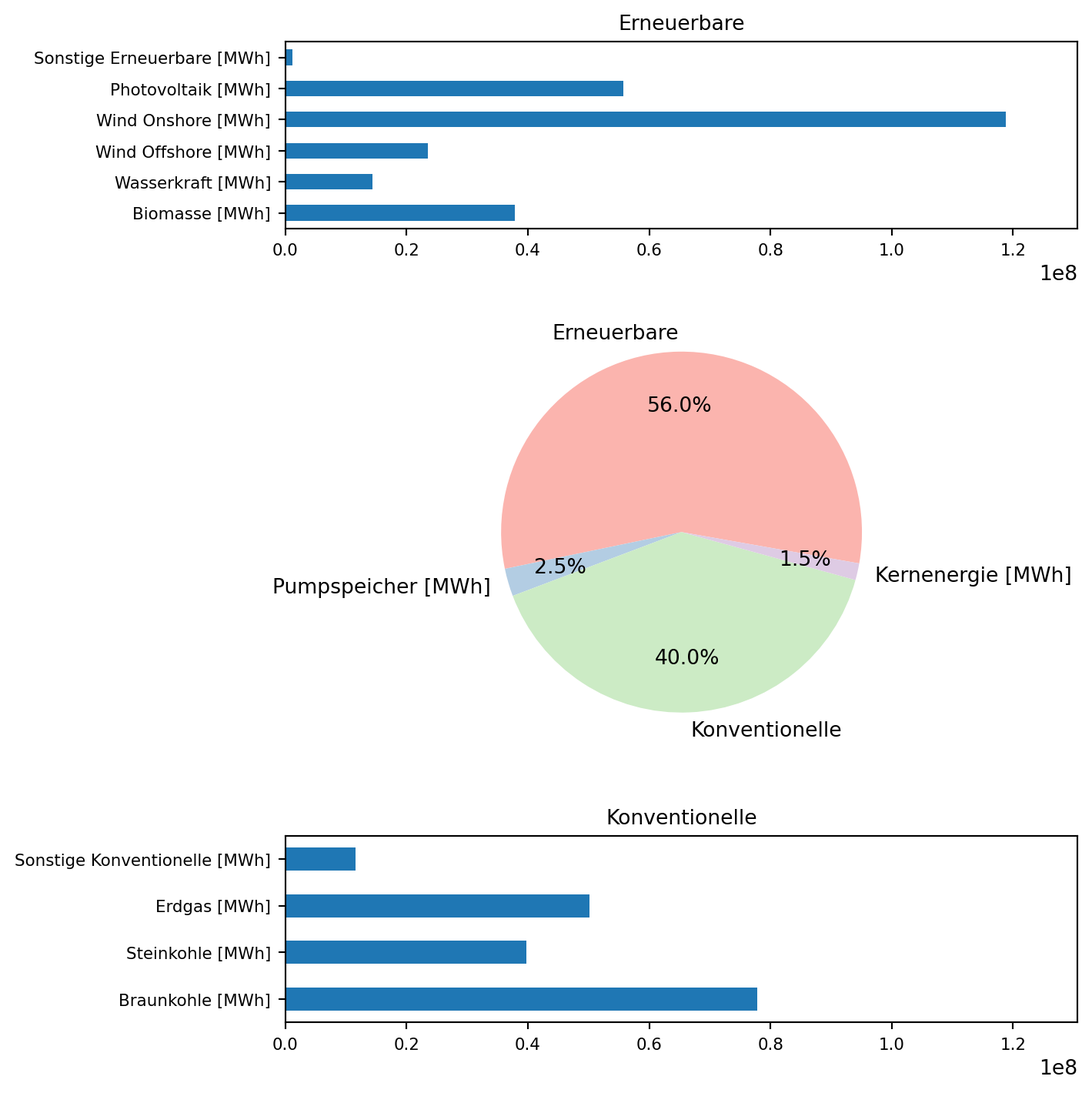
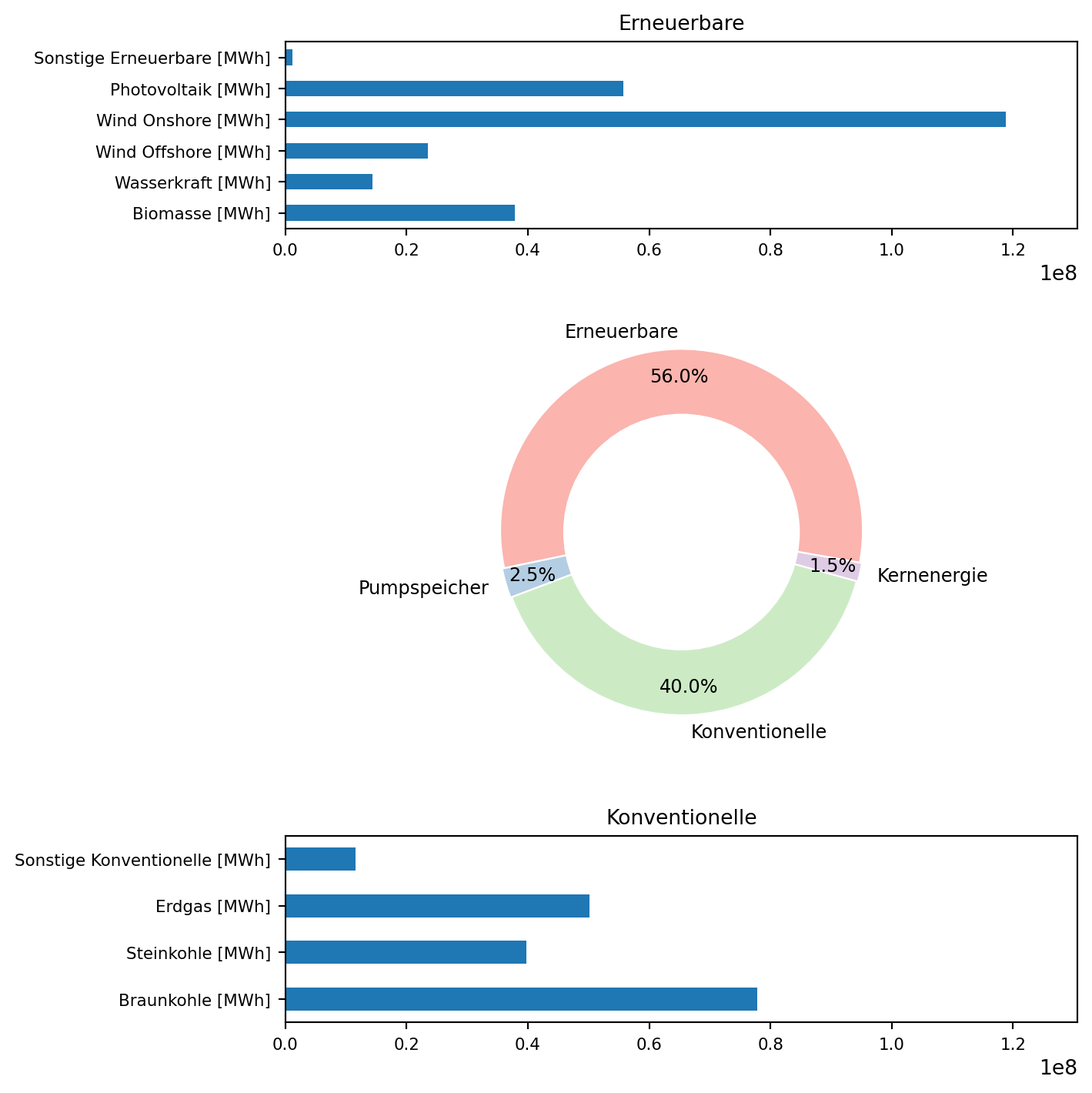
minor update - to matplotlib grafic

Changed region(s): [[0.2481, 0.2789, 0.8992, 0.6817], [0.9302, 0.4958, 0.9612, 0.5268]]

diff --git a/Energiedatenauswertung.html b/Energiedatenauswertung.html
@@ -312,7 +312,7 @@ Warning&nbsp;1: SMARD Daten herunterladen
 <li><p>die Spalten mit Datums- und Zeitangaben sowie das Datumsformat bestimmt.<br>
 <code>parse_dates =  [0, 1], date_format = "%d.%m.%Y %H:%M"</code></p></li>
 </ul>
-<div id="04543f3e" class="cell" data-results="hold" data-execution_count="1">
+<div id="4153e0c9" class="cell" data-results="hold" data-execution_count="1">
 <div class="sourceCode cell-code" id="cb2"><pre class="sourceCode python code-with-copy"><code class="sourceCode python"><span id="cb2-1"><a href="#cb2-1" aria-hidden="true" tabindex="-1"></a><span class="im">import</span> pandas <span class="im">as</span> pd</span>
 <span id="cb2-2"><a href="#cb2-2" aria-hidden="true" tabindex="-1"></a>pd.set_option(<span class="st">"display.precision"</span>, <span class="dv">2</span>) <span class="co"># places after decimal for floats</span></span>
 <span id="cb2-3"><a href="#cb2-3" aria-hidden="true" tabindex="-1"></a><span class="im">import</span> numpy <span class="im">as</span> np</span>
@@ -349,7 +349,7 @@ english version
 <div id="callout-3" class="callout-3-contents callout-collapse collapse">
 <div class="callout-body-container callout-body">
 <p>english version</p>
-<div id="46a1de90" class="cell" data-results="hold" data-execution_count="2">
+<div id="996e1d3f" class="cell" data-results="hold" data-execution_count="2">
 <div class="sourceCode cell-code" id="cb3"><pre class="sourceCode python code-with-copy"><code class="sourceCode python"><span id="cb3-1"><a href="#cb3-1" aria-hidden="true" tabindex="-1"></a><span class="im">import</span> pandas <span class="im">as</span> pd</span>
 <span id="cb3-2"><a href="#cb3-2" aria-hidden="true" tabindex="-1"></a></span>
 <span id="cb3-3"><a href="#cb3-3" aria-hidden="true" tabindex="-1"></a>erzeugung0_en <span class="op">=</span> pd.read_csv(filepath_or_buffer <span class="op">=</span> <span class="op">\</span></span>
@@ -358,7 +358,7 @@ english version
 <span id="cb3-6"><a href="#cb3-6" aria-hidden="true" tabindex="-1"></a>parse_dates <span class="op">=</span>  [<span class="dv">0</span>, <span class="dv">1</span>], date_format <span class="op">=</span> <span class="st">"%b </span><span class="sc">%d</span><span class="st">, %Y %I:%M %p"</span>) <span class="co"># leading zero is optional for formats %d, %m, %H, %I, %M, %S, %j, %U, %W, and %V</span></span>
 <span id="cb3-7"><a href="#cb3-7" aria-hidden="true" tabindex="-1"></a></span>
 <span id="cb3-8"><a href="#cb3-8" aria-hidden="true" tabindex="-1"></a>pd.concat([erzeugung0_en.head(<span class="dv">2</span>), erzeugung0_en.tail(<span class="dv">2</span>)])</span></code><button title="In die Zwischenablage kopieren" class="code-copy-button"><i class="bi"></i></button></pre></div>
-<div class="cell-output cell-output-display" data-execution_count="2">
+<div class="cell-output cell-output-display" data-execution_count="141">
 <div>
 <div>
 
@@ -567,7 +567,7 @@ Tip&nbsp;2: Lösung Datumsformat
 <section id="daten-organisieren" class="level1" data-number="5">
 <h1 data-number="5"><span class="header-section-number">5</span> Daten organisieren</h1>
 <p>Vor der Datenanalyse sollte überprüft werden, ob die Daten korrekt eingelesen wurden. Dies bedeutet zum einen, zu kontrollieren, ob der Datentyp aller Spalten richtig erkannt wurde. Ob die Spaltentypen einer Datei korrekt eingelesen wurden, können Sie in Python mit dem Befehl <code>df.dtypes</code> überprüfen. Hier der Output des Befehls für den DataFrame <code>erzeugung0</code>.</p>
-<div id="603b0bcd" class="cell" data-results="hold" data-execution_count="3">
+<div id="be5d8c02" class="cell" data-results="hold" data-execution_count="3">
 <div class="sourceCode cell-code" id="cb4"><pre class="sourceCode python code-with-copy"><code class="sourceCode python"><span id="cb4-1"><a href="#cb4-1" aria-hidden="true" tabindex="-1"></a><span class="bu">print</span>(<span class="ss">f"Spalten:</span><span class="ch">\n</span><span class="sc">{</span>erzeugung0<span class="sc">.</span>dtypes<span class="sc">}</span><span class="ss">"</span>)</span></code><button title="In die Zwischenablage kopieren" class="code-copy-button"><i class="bi"></i></button></pre></div>
 <div class="cell-output cell-output-stdout">
 <pre><code>Spalten:
@@ -590,7 +590,7 @@ dtype: object</code></pre>
 </div>
 <p>&nbsp;</p>
 <p>Viele der Spaltennamen enthalten die Zeichenkette ” Originalauflösungen”, die der Übersichtlichkeit wegen entfernt werden kann (führendes Leerzeichen beachten). Auf diese Weise könnte auch die Einheitenangabe [MWh] entfernt werden, falls diese als störend empfunden wird.</p>
-<div id="f6bcb67e" class="cell" data-results="hold" data-execution_count="4">
+<div id="46994932" class="cell" data-results="hold" data-execution_count="4">
 <div class="sourceCode cell-code" id="cb6"><pre class="sourceCode python code-with-copy"><code class="sourceCode python"><span id="cb6-1"><a href="#cb6-1" aria-hidden="true" tabindex="-1"></a><span class="co"># Zeichenkette " Originalauflösungen" entfernen</span></span>
 <span id="cb6-2"><a href="#cb6-2" aria-hidden="true" tabindex="-1"></a>installierte_leistung0.columns <span class="op">=</span> installierte_leistung0.columns.<span class="bu">str</span>.replace(pat <span class="op">=</span> <span class="st">" Originalauflösungen"</span>, repl <span class="op">=</span> <span class="st">""</span>)</span>
 <span id="cb6-3"><a href="#cb6-3" aria-hidden="true" tabindex="-1"></a></span>
@@ -623,10 +623,10 @@ dtype: object</code></pre>
 <ul class="nav nav-tabs" role="tablist"><li class="nav-item" role="presentation"><a class="nav-link active" id="tabset-1-1-tab" data-bs-toggle="tab" data-bs-target="#tabset-1-1" role="tab" aria-controls="tabset-1-1" aria-selected="true" href="">installierte Leistung</a></li><li class="nav-item" role="presentation"><a class="nav-link" id="tabset-1-2-tab" data-bs-toggle="tab" data-bs-target="#tabset-1-2" role="tab" aria-controls="tabset-1-2" aria-selected="false" href="">realisierte Erzeugung</a></li><li class="nav-item" role="presentation"><a class="nav-link" id="tabset-1-3-tab" data-bs-toggle="tab" data-bs-target="#tabset-1-3" role="tab" aria-controls="tabset-1-3" aria-selected="false" href="">realisierter Verbrauch</a></li></ul>
 <div class="tab-content">
 <div id="tabset-1-1" class="tab-pane active" role="tabpanel" aria-labelledby="tabset-1-1-tab">
-<div id="5e18ce75" class="cell" data-results="hold" data-execution_count="5">
+<div id="9220696a" class="cell" data-results="hold" data-execution_count="5">
 <div class="sourceCode cell-code" id="cb8"><pre class="sourceCode python code-with-copy"><code class="sourceCode python"><span id="cb8-1"><a href="#cb8-1" aria-hidden="true" tabindex="-1"></a><span class="co"># der DataFrame installierte_leistung0 hat nur 1 Zeile</span></span>
 <span id="cb8-2"><a href="#cb8-2" aria-hidden="true" tabindex="-1"></a>installierte_leistung0</span></code><button title="In die Zwischenablage kopieren" class="code-copy-button"><i class="bi"></i></button></pre></div>
-<div class="cell-output cell-output-display" data-execution_count="5">
+<div class="cell-output cell-output-display" data-execution_count="144">
 <div>
 <div>
 
@@ -678,11 +678,11 @@ dtype: object</code></pre>
 </div>
 </div>
 <div id="tabset-1-2" class="tab-pane" role="tabpanel" aria-labelledby="tabset-1-2-tab">
-<div id="83ef1889" class="cell" data-results="hold" data-execution_count="6">
+<div id="deff7fd3" class="cell" data-results="hold" data-execution_count="6">
 <div class="sourceCode cell-code" id="cb9"><pre class="sourceCode python code-with-copy"><code class="sourceCode python"><span id="cb9-1"><a href="#cb9-1" aria-hidden="true" tabindex="-1"></a>pd.concat([erzeugung0.head(<span class="dv">2</span>), <span class="op">\</span></span>
 <span id="cb9-2"><a href="#cb9-2" aria-hidden="true" tabindex="-1"></a>erzeugung0.iloc[<span class="bu">len</span>(erzeugung0)<span class="op">//</span><span class="dv">2</span>:(<span class="bu">len</span>(erzeugung0)<span class="op">//</span><span class="dv">2</span><span class="op">+</span><span class="dv">2</span>)], <span class="op">\</span></span>
 <span id="cb9-3"><a href="#cb9-3" aria-hidden="true" tabindex="-1"></a>erzeugung0.tail(<span class="dv">2</span>)])</span></code><button title="In die Zwischenablage kopieren" class="code-copy-button"><i class="bi"></i></button></pre></div>
-<div class="cell-output cell-output-display" data-execution_count="6">
+<div class="cell-output cell-output-display" data-execution_count="145">
 <div>
 <div>
 
@@ -819,11 +819,11 @@ dtype: object</code></pre>
 </div>
 </div>
 <div id="tabset-1-3" class="tab-pane" role="tabpanel" aria-labelledby="tabset-1-3-tab">
-<div id="c0aa490c" class="cell" data-results="hold" data-execution_count="7">
+<div id="d0a594ec" class="cell" data-results="hold" data-execution_count="7">
 <div class="sourceCode cell-code" id="cb10"><pre class="sourceCode python code-with-copy"><code class="sourceCode python"><span id="cb10-1"><a href="#cb10-1" aria-hidden="true" tabindex="-1"></a>pd.concat([verbrauch0.head(<span class="dv">2</span>), <span class="op">\</span></span>
 <span id="cb10-2"><a href="#cb10-2" aria-hidden="true" tabindex="-1"></a>verbrauch0.iloc[<span class="bu">len</span>(verbrauch0)<span class="op">//</span><span class="dv">2</span>:(<span class="bu">len</span>(verbrauch0)<span class="op">//</span><span class="dv">2</span><span class="op">+</span><span class="dv">2</span>)], <span class="op">\</span></span>
 <span id="cb10-3"><a href="#cb10-3" aria-hidden="true" tabindex="-1"></a>verbrauch0.tail(<span class="dv">2</span>)])</span></code><button title="In die Zwischenablage kopieren" class="code-copy-button"><i class="bi"></i></button></pre></div>
-<div class="cell-output cell-output-display" data-execution_count="7">
+<div class="cell-output cell-output-display" data-execution_count="146">
 <div>
 <div>
 
@@ -900,7 +900,7 @@ dtype: object</code></pre>
 </div>
 <p>&nbsp;</p>
 <p>Schließlich ist eine Plausibilitätskontrolle der Daten sinnvoll. Einleitend wurde der deutsche Gesamtstromverbrauch im Jahr 2023 genannt, der 458,3 TWh beträgt. Der Stromverbrauch und die Summe der Stromerzeugung sollten diesem Wert ungefähr entsprechen.</p>
-<div id="c4282f96" class="cell" data-execution_count="8">
+<div id="f74ab242" class="cell" data-execution_count="8">
 <div class="sourceCode cell-code" id="cb11"><pre class="sourceCode python code-with-copy"><code class="sourceCode python"><span id="cb11-1"><a href="#cb11-1" aria-hidden="true" tabindex="-1"></a><span class="co"># exclude columns with datetime</span></span>
 <span id="cb11-2"><a href="#cb11-2" aria-hidden="true" tabindex="-1"></a><span class="bu">print</span>(<span class="st">"Stromverbrauch in Millionen MWh:</span><span class="ch">\n</span><span class="st">"</span>, <span class="op">\</span></span>
 <span id="cb11-3"><a href="#cb11-3" aria-hidden="true" tabindex="-1"></a>verbrauch0.<span class="bu">sum</span>(numeric_only <span class="op">=</span> <span class="va">True</span>) <span class="op">//</span> (<span class="dv">1000</span> <span class="op">*</span> <span class="dv">1000</span>), sep <span class="op">=</span> <span class="st">""</span>)</span>
@@ -919,7 +919,7 @@ Stromerzeugung in Millionen MWh 448.0</code></pre>
 </div>
 <p>&nbsp;</p>
 <p>Wenn alle Dateien korrekt eingelesen wurden, können Arbeitsdateien mit dem Befehl <code>df.copy()</code> angelegt werden. Mit diesen wird im folgenden gearbeitet. Dadurch bleiben die Rohdaten immer verfügbar und können bei Bedarf, beispielsweise nach einem versehentlichen Überschreiben der Arbeitsdateien, erneut geladen werden.</p>
-<div id="989d20bf" class="cell" data-results="hold" data-execution_count="9">
+<div id="95ec470c" class="cell" data-results="hold" data-execution_count="9">
 <div class="sourceCode cell-code" id="cb13"><pre class="sourceCode python code-with-copy"><code class="sourceCode python"><span id="cb13-1"><a href="#cb13-1" aria-hidden="true" tabindex="-1"></a>erzeugung <span class="op">=</span> erzeugung0.copy()</span>
 <span id="cb13-2"><a href="#cb13-2" aria-hidden="true" tabindex="-1"></a>verbrauch <span class="op">=</span> verbrauch0.copy()</span>
 <span id="cb13-3"><a href="#cb13-3" aria-hidden="true" tabindex="-1"></a>installierte_leistung <span class="op">=</span> installierte_leistung0.copy()</span></code><button title="In die Zwischenablage kopieren" class="code-copy-button"><i class="bi"></i></button></pre></div>
@@ -929,7 +929,7 @@ Stromerzeugung in Millionen MWh 448.0</code></pre>
 <h1 data-number="6"><span class="header-section-number">6</span> Beschreibende Datenanalyse</h1>
 <p>Mit Methoden der beschreibenden Statistik kann ein Überblick über die Datensätze und die Daten gewonnen werden. Dieser Schritt dient insbesondere auch dazu, mögliche Fehler und Auffälligkeiten im Datensatz zu identifizieren. Hierbei gewonnene Befunde können im der folgenden explorativen und analytischen Datenanalyse vertieft werden.</p>
 <p>Einen ersten Überblick über die Daten liefert die Methode <code>pd.DataFrame.describe()</code>. Durch das Argument <code>include = [np.number]</code> kann die Ausgabe auf Spalten mit numerischen Daten beschränkt, also die Spalten mit Datumsinformationen ausgeschlossen, werden.</p>
-<div id="50b563cb" class="cell" data-results="hold" data-execution_count="10">
+<div id="ffff33eb" class="cell" data-results="hold" data-execution_count="10">
 <div class="sourceCode cell-code" id="cb14"><pre class="sourceCode python code-with-copy"><code class="sourceCode python"><span id="cb14-1"><a href="#cb14-1" aria-hidden="true" tabindex="-1"></a><span class="bu">print</span>(<span class="ss">f"Der DataFrame erzeugung hat </span><span class="sc">{</span>erzeugung<span class="sc">.</span>shape[<span class="dv">0</span>]<span class="sc">}</span><span class="ss"> Zeilen und </span><span class="sc">{</span>erzeugung<span class="sc">.</span>shape[<span class="dv">1</span>]<span class="sc">}</span><span class="ss"> Spalten.</span><span class="ch">\n</span><span class="ss">"</span>)</span>
 <span id="cb14-2"><a href="#cb14-2" aria-hidden="true" tabindex="-1"></a><span class="bu">print</span>(erzeugung.describe(include <span class="op">=</span> [np.number]))</span></code><button title="In die Zwischenablage kopieren" class="code-copy-button"><i class="bi"></i></button></pre></div>
 <div class="cell-output cell-output-stdout">
@@ -1007,7 +1007,7 @@ Tip&nbsp;3: Lösung Zeichenkette
 <ul class="nav nav-tabs" role="tablist"><li class="nav-item" role="presentation"><a class="nav-link active" id="tabset-2-1-tab" data-bs-toggle="tab" data-bs-target="#tabset-2-1" role="tab" aria-controls="tabset-2-1" aria-selected="true" href="">Plotten mit Pandas</a></li><li class="nav-item" role="presentation"><a class="nav-link" id="tabset-2-2-tab" data-bs-toggle="tab" data-bs-target="#tabset-2-2" role="tab" aria-controls="tabset-2-2" aria-selected="false" href="">To Do</a></li><li class="nav-item" role="presentation"><a class="nav-link" id="tabset-2-3-tab" data-bs-toggle="tab" data-bs-target="#tabset-2-3" role="tab" aria-controls="tabset-2-3" aria-selected="false" href="">Code für Pandas</a></li></ul>
 <div class="tab-content">
 <div id="tabset-2-1" class="tab-pane active" role="tabpanel" aria-labelledby="tabset-2-1-tab">
-<div id="e0dc902f" class="cell" data-results="hold" data-execution_count="11">
+<div id="a0f3b06f" class="cell" data-results="hold" data-execution_count="11">
 <div class="cell-output cell-output-display">
 <div class="quarto-figure quarto-figure-center">
 <figure class="figure">
@@ -1030,7 +1030,7 @@ Tip&nbsp;3: Lösung Zeichenkette
 </ul>
 </div>
 <div id="tabset-2-3" class="tab-pane" role="tabpanel" aria-labelledby="tabset-2-3-tab">
-<div id="4846dc65" class="cell" data-results="hold" data-execution_count="12">
+<div id="7110be2f" class="cell" data-results="hold" data-execution_count="12">
 <div class="sourceCode cell-code" id="cb16"><pre class="sourceCode python code-with-copy"><code class="sourceCode python"><span id="cb16-1"><a href="#cb16-1" aria-hidden="true" tabindex="-1"></a><span class="co"># white space between pieces</span></span>
 <span id="cb16-2"><a href="#cb16-2" aria-hidden="true" tabindex="-1"></a>explosion <span class="op">=</span> np.zeros(<span class="bu">sum</span>(<span class="bu">list</span>(erzeugung.dtypes <span class="op">==</span> np.number))) <span class="co"># way to count numeric columns</span></span>
 <span id="cb16-3"><a href="#cb16-3" aria-hidden="true" tabindex="-1"></a>explosion <span class="op">=</span> explosion <span class="op">+</span> <span class="fl">0.02</span> <span class="co"># set spacing</span></span>
@@ -1063,7 +1063,7 @@ Tip&nbsp;3: Lösung Zeichenkette
 <ul class="nav nav-tabs" role="tablist"><li class="nav-item" role="presentation"><a class="nav-link active" id="tabset-3-1-tab" data-bs-toggle="tab" data-bs-target="#tabset-3-1" role="tab" aria-controls="tabset-3-1" aria-selected="true" href="">Plotten mit matplotlib</a></li><li class="nav-item" role="presentation"><a class="nav-link" id="tabset-3-2-tab" data-bs-toggle="tab" data-bs-target="#tabset-3-2" role="tab" aria-controls="tabset-3-2" aria-selected="false" href="">To Do</a></li><li class="nav-item" role="presentation"><a class="nav-link" id="tabset-3-3-tab" data-bs-toggle="tab" data-bs-target="#tabset-3-3" role="tab" aria-controls="tabset-3-3" aria-selected="false" href="">Code für matplotlib</a></li></ul>
 <div class="tab-content">
 <div id="tabset-3-1" class="tab-pane active" role="tabpanel" aria-labelledby="tabset-3-1-tab">
-<div id="29f12f9c" class="cell" data-results="hold" data-execution_count="13">
+<div id="d1a97d43" class="cell" data-results="hold" data-execution_count="13">
 <div class="cell-output cell-output-display">
 <div class="quarto-figure quarto-figure-center">
 <figure class="figure">
@@ -1087,7 +1087,7 @@ Option2: Zugriff auf Farbpalette meistern</p></li>
 </ul>
 </div>
 <div id="tabset-3-3" class="tab-pane" role="tabpanel" aria-labelledby="tabset-3-3-tab">
-<div id="7bfbc6f6" class="cell" data-results="hold" data-execution_count="14">
+<div id="08377ae3" class="cell" data-results="hold" data-execution_count="14">
 <div class="sourceCode cell-code" id="cb17"><pre class="sourceCode python code-with-copy"><code class="sourceCode python"><span id="cb17-1"><a href="#cb17-1" aria-hidden="true" tabindex="-1"></a><span class="co"># Erneuerbare und Konventionelle bestimmen, jeweils summieren</span></span>
 <span id="cb17-2"><a href="#cb17-2" aria-hidden="true" tabindex="-1"></a></span>
 <span id="cb17-3"><a href="#cb17-3" aria-hidden="true" tabindex="-1"></a><span class="co">## Erneuerbare</span></span>
@@ -1116,27 +1116,36 @@ Option2: Zugriff auf Farbpalette meistern</p></li>
 <span id="cb17-26"><a href="#cb17-26" aria-hidden="true" tabindex="-1"></a><span class="co"># Grafik mit drei subplots erzeugen</span></span>
 <span id="cb17-27"><a href="#cb17-27" aria-hidden="true" tabindex="-1"></a>plt.figure(figsize <span class="op">=</span> (<span class="fl">7.5</span>, <span class="fl">7.5</span>))</span>
 <span id="cb17-28"><a href="#cb17-28" aria-hidden="true" tabindex="-1"></a></span>
-<span id="cb17-29"><a href="#cb17-29" aria-hidden="true" tabindex="-1"></a>nrows <span class="op">=</span> <span class="dv">5</span></span>
-<span id="cb17-30"><a href="#cb17-30" aria-hidden="true" tabindex="-1"></a>ncols <span class="op">=</span> <span class="dv">2</span></span>
-<span id="cb17-31"><a href="#cb17-31" aria-hidden="true" tabindex="-1"></a>font_size <span class="op">=</span> <span class="dv">8</span></span>
-<span id="cb17-32"><a href="#cb17-32" aria-hidden="true" tabindex="-1"></a>x_lim <span class="op">=</span> erzeugung.<span class="bu">sum</span>(numeric_only <span class="op">=</span> <span class="va">True</span>).<span class="bu">max</span>() <span class="op">*</span> <span class="fl">1.1</span> <span class="co"># same axis for barplots</span></span>
-<span id="cb17-33"><a href="#cb17-33" aria-hidden="true" tabindex="-1"></a></span>
-<span id="cb17-34"><a href="#cb17-34" aria-hidden="true" tabindex="-1"></a><span class="co"># use 6 out of 10 panels = middle 3 rows</span></span>
-<span id="cb17-35"><a href="#cb17-35" aria-hidden="true" tabindex="-1"></a>plt.subplot(nrows, ncols, (<span class="dv">3</span>, <span class="dv">8</span>))</span>
-<span id="cb17-36"><a href="#cb17-36" aria-hidden="true" tabindex="-1"></a>plt.pie(x <span class="op">=</span> plotting_data.<span class="bu">sum</span>(), colors <span class="op">=</span> plt.cm.Pastel1.colors, startangle <span class="op">=</span> <span class="dv">350</span>, labels <span class="op">=</span> <span class="bu">list</span>(plotting_data.columns), autopct<span class="op">=</span><span class="st">'</span><span class="sc">%1.1f%%</span><span class="st">'</span>, pctdistance <span class="op">=</span> <span class="fl">0.7</span>, textprops <span class="op">=</span> <span class="bu">dict</span>(size <span class="op">=</span> font_size <span class="op">+</span><span class="dv">2</span> ))</span>
+<span id="cb17-29"><a href="#cb17-29" aria-hidden="true" tabindex="-1"></a><span class="co"># white space between pieces</span></span>
+<span id="cb17-30"><a href="#cb17-30" aria-hidden="true" tabindex="-1"></a>explosion <span class="op">=</span> np.zeros(<span class="bu">sum</span>(<span class="bu">list</span>(plotting_data.dtypes <span class="op">==</span> np.number))) <span class="co"># way to count numeric columns</span></span>
+<span id="cb17-31"><a href="#cb17-31" aria-hidden="true" tabindex="-1"></a>explosion <span class="op">=</span> explosion <span class="op">+</span> <span class="fl">0.01</span> <span class="co"># set spacing</span></span>
+<span id="cb17-32"><a href="#cb17-32" aria-hidden="true" tabindex="-1"></a></span>
+<span id="cb17-33"><a href="#cb17-33" aria-hidden="true" tabindex="-1"></a>nrows <span class="op">=</span> <span class="dv">4</span></span>
+<span id="cb17-34"><a href="#cb17-34" aria-hidden="true" tabindex="-1"></a>ncols <span class="op">=</span> <span class="dv">2</span></span>
+<span id="cb17-35"><a href="#cb17-35" aria-hidden="true" tabindex="-1"></a>font_size <span class="op">=</span> <span class="dv">8</span></span>
+<span id="cb17-36"><a href="#cb17-36" aria-hidden="true" tabindex="-1"></a>x_lim <span class="op">=</span> erzeugung.<span class="bu">sum</span>(numeric_only <span class="op">=</span> <span class="va">True</span>).<span class="bu">max</span>() <span class="op">*</span> <span class="fl">1.1</span> <span class="co"># get value for shared x-axis on barplots</span></span>
 <span id="cb17-37"><a href="#cb17-37" aria-hidden="true" tabindex="-1"></a></span>
-<span id="cb17-38"><a href="#cb17-38" aria-hidden="true" tabindex="-1"></a><span class="co"># top row  unstacked barplot </span></span>
-<span id="cb17-39"><a href="#cb17-39" aria-hidden="true" tabindex="-1"></a>plt.subplot(nrows, ncols, (<span class="dv">1</span>, <span class="dv">2</span>))</span>
-<span id="cb17-40"><a href="#cb17-40" aria-hidden="true" tabindex="-1"></a>erzeugung[erneuerbare].<span class="bu">sum</span>().plot.barh(fontsize <span class="op">=</span> font_size, xlim <span class="op">=</span> (<span class="dv">0</span>, x_lim))</span>
-<span id="cb17-41"><a href="#cb17-41" aria-hidden="true" tabindex="-1"></a>plt.title(<span class="st">"Erneuerbare"</span>, fontsize <span class="op">=</span> font_size <span class="op">+</span> <span class="dv">2</span>)</span>
-<span id="cb17-42"><a href="#cb17-42" aria-hidden="true" tabindex="-1"></a></span>
-<span id="cb17-43"><a href="#cb17-43" aria-hidden="true" tabindex="-1"></a><span class="co"># bottom row unstacked barplot </span></span>
-<span id="cb17-44"><a href="#cb17-44" aria-hidden="true" tabindex="-1"></a>plt.subplot(nrows, ncols, (<span class="dv">9</span>, <span class="dv">10</span>))</span>
-<span id="cb17-45"><a href="#cb17-45" aria-hidden="true" tabindex="-1"></a>erzeugung[konventionelle].<span class="bu">sum</span>().plot.barh(fontsize <span class="op">=</span> font_size, xlim <span class="op">=</span> (<span class="dv">0</span>, x_lim))</span>
-<span id="cb17-46"><a href="#cb17-46" aria-hidden="true" tabindex="-1"></a>plt.title(<span class="st">"Konventionelle"</span>, fontsize <span class="op">=</span> font_size <span class="op">+</span> <span class="dv">2</span>)</span>
-<span id="cb17-47"><a href="#cb17-47" aria-hidden="true" tabindex="-1"></a></span>
-<span id="cb17-48"><a href="#cb17-48" aria-hidden="true" tabindex="-1"></a>plt.tight_layout()</span>
-<span id="cb17-49"><a href="#cb17-49" aria-hidden="true" tabindex="-1"></a>plt.show()</span></code><button title="In die Zwischenablage kopieren" class="code-copy-button"><i class="bi"></i></button></pre></div>
+<span id="cb17-38"><a href="#cb17-38" aria-hidden="true" tabindex="-1"></a><span class="co"># plot the pie, use 4 out of 8 panels = middle 2 rows</span></span>
+<span id="cb17-39"><a href="#cb17-39" aria-hidden="true" tabindex="-1"></a>ax <span class="op">=</span> plt.subplot(nrows, ncols, (<span class="dv">3</span>, <span class="dv">6</span>))</span>
+<span id="cb17-40"><a href="#cb17-40" aria-hidden="true" tabindex="-1"></a>plt.pie(x <span class="op">=</span> plotting_data.<span class="bu">sum</span>(), colors <span class="op">=</span> plt.cm.Pastel1.colors, startangle <span class="op">=</span> <span class="dv">350</span>, labels <span class="op">=</span> <span class="bu">list</span>(plotting_data.columns), autopct<span class="op">=</span><span class="st">'</span><span class="sc">%1.1f%%</span><span class="st">'</span>, pctdistance <span class="op">=</span> <span class="fl">0.85</span>, textprops <span class="op">=</span> <span class="bu">dict</span>(size <span class="op">=</span> font_size <span class="op">+</span> <span class="dv">1</span>), explode <span class="op">=</span> explosion)</span>
+<span id="cb17-41"><a href="#cb17-41" aria-hidden="true" tabindex="-1"></a></span>
+<span id="cb17-42"><a href="#cb17-42" aria-hidden="true" tabindex="-1"></a><span class="co"># make a donut</span></span>
+<span id="cb17-43"><a href="#cb17-43" aria-hidden="true" tabindex="-1"></a>my_axis <span class="op">=</span> plt.gca() <span class="co"># plt.gca = get current axis</span></span>
+<span id="cb17-44"><a href="#cb17-44" aria-hidden="true" tabindex="-1"></a>circle <span class="op">=</span> plt.Circle((<span class="dv">0</span>, <span class="dv">0</span>), radius <span class="op">=</span> <span class="fl">0.65</span>, color <span class="op">=</span> <span class="st">"white"</span>)</span>
+<span id="cb17-45"><a href="#cb17-45" aria-hidden="true" tabindex="-1"></a>ax.add_patch(circle)</span>
+<span id="cb17-46"><a href="#cb17-46" aria-hidden="true" tabindex="-1"></a></span>
+<span id="cb17-47"><a href="#cb17-47" aria-hidden="true" tabindex="-1"></a><span class="co"># top row  unstacked barplot </span></span>
+<span id="cb17-48"><a href="#cb17-48" aria-hidden="true" tabindex="-1"></a>plt.subplot(nrows, ncols, (<span class="dv">1</span>, <span class="dv">2</span>))</span>
+<span id="cb17-49"><a href="#cb17-49" aria-hidden="true" tabindex="-1"></a>erzeugung[erneuerbare].<span class="bu">sum</span>().plot.barh(fontsize <span class="op">=</span> font_size, xlim <span class="op">=</span> (<span class="dv">0</span>, x_lim))</span>
+<span id="cb17-50"><a href="#cb17-50" aria-hidden="true" tabindex="-1"></a>plt.title(<span class="st">"Erneuerbare"</span>, fontsize <span class="op">=</span> font_size <span class="op">+</span> <span class="dv">2</span>)</span>
+<span id="cb17-51"><a href="#cb17-51" aria-hidden="true" tabindex="-1"></a></span>
+<span id="cb17-52"><a href="#cb17-52" aria-hidden="true" tabindex="-1"></a><span class="co"># bottom row unstacked barplot </span></span>
+<span id="cb17-53"><a href="#cb17-53" aria-hidden="true" tabindex="-1"></a>plt.subplot(nrows, ncols, (<span class="dv">7</span>, <span class="dv">8</span>))</span>
+<span id="cb17-54"><a href="#cb17-54" aria-hidden="true" tabindex="-1"></a>erzeugung[konventionelle].<span class="bu">sum</span>().plot.barh(fontsize <span class="op">=</span> font_size, xlim <span class="op">=</span> (<span class="dv">0</span>, x_lim))</span>
+<span id="cb17-55"><a href="#cb17-55" aria-hidden="true" tabindex="-1"></a>plt.title(<span class="st">"Konventionelle"</span>, fontsize <span class="op">=</span> font_size <span class="op">+</span> <span class="dv">2</span>)</span>
+<span id="cb17-56"><a href="#cb17-56" aria-hidden="true" tabindex="-1"></a></span>
+<span id="cb17-57"><a href="#cb17-57" aria-hidden="true" tabindex="-1"></a>plt.tight_layout()</span>
+<span id="cb17-58"><a href="#cb17-58" aria-hidden="true" tabindex="-1"></a>plt.show()</span></code><button title="In die Zwischenablage kopieren" class="code-copy-button"><i class="bi"></i></button></pre></div>
 </div>
 </div>
 </div>
